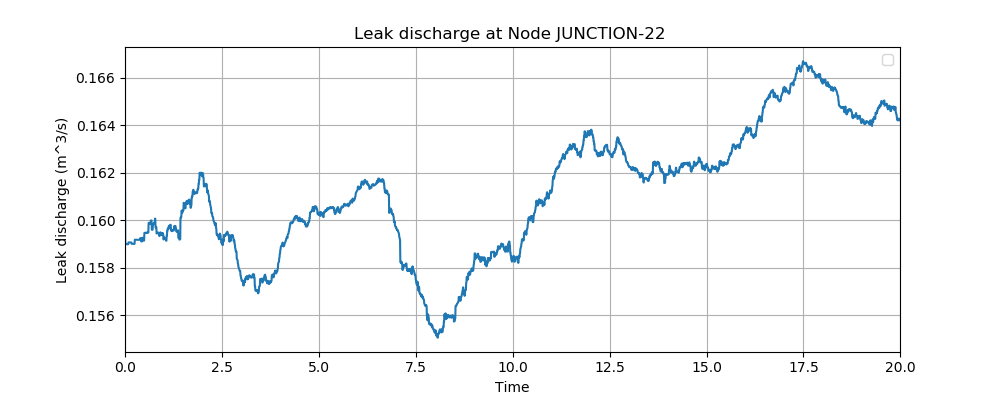
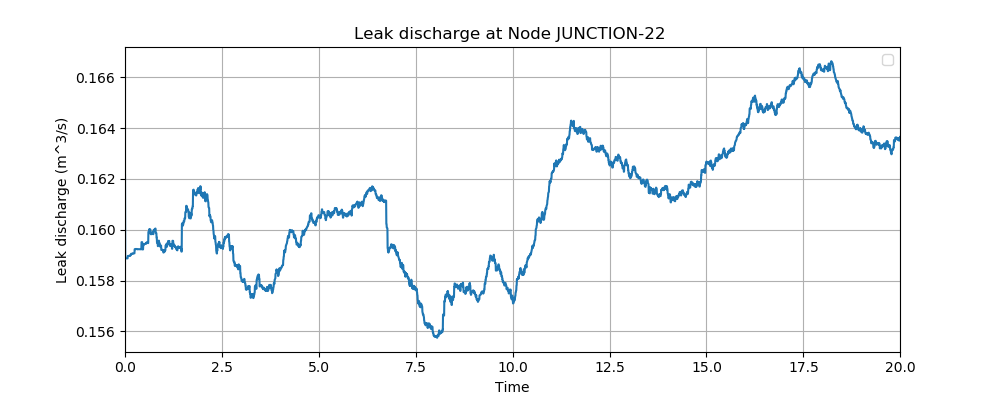
example 3 updated.

diff --git a/examples/Tnet3_burst_leak.py b/examples/Tnet3_burst_leak.py
@@ -4,7 +4,9 @@ inp_file = 'examples/networks/Tnet3.inp'
 tm = wmoc.network.TransientModel(inp_file)
 
 # set wavespeed
-tm.set_wavespeed(1200.)
+import numpy as np
+wavespeed = np.random.normal(1200., 100., size=tm.num_pipes)
+tm.set_wavespeed(wavespeed)
 #set time step
 tf = 20 # simulation period [s]
 tm.set_time(tf)
@@ -69,3 +71,21 @@ plt.legend(loc='best')
 plt.grid(True)
 plt.show()
 fig.savefig('./docs/figures/tnet3_pipe.png', format='png',dpi=100)
+
+node1 = tm.get_node('JUNCTION-8')
+node2 = tm.get_node('JUNCTION-16')
+node3 = tm.get_node('JUNCTION-45')
+node4 = tm.get_node('JUNCTION-90')
+fig = plt.figure(figsize=(10,4), dpi=80, facecolor='w', edgecolor='k')
+plt.plot(tm.simulation_timestamps,node1.head,label='JUNCTION-8')
+plt.plot(tm.simulation_timestamps,node2.head,label='JUNCTION-16')
+plt.plot(tm.simulation_timestamps,node3.head,label='JUNCTION-45')
+plt.plot(tm.simulation_timestamps,node4.head,label='JUNCTION-90')
+plt.xlim([tm.simulation_timestamps[0],tm.simulation_timestamps[-1]])
+plt.title('Head on Junctions')
+plt.xlabel("Time")
+plt.ylabel("Head (m)")
+plt.legend(loc='best')
+plt.grid(True)
+plt.show()
+fig.savefig('./docs/figures/tnet3_multi.png', format='png',dpi=100)

diff --git a/wmoc/network/model.py b/wmoc/network/model.py
@@ -77,7 +77,7 @@ class TransientModel (WaterNetworkModel):
         ----------
         wavespeed : float or int or list, optional
             If given as float or int, set the value as wavespeed
-            for all pipe; If given as list set the correspondiing
+            for all pipe; If given as list set the corresponding
             value to each pipe, by default 1200.
         """
 

diff --git a/docs/examples.rst b/docs/examples.rst
@@ -194,45 +194,49 @@ would need to take:
 .. literalinclude:: ../examples/Tnet3_burst_leak.py
     :lines: 1-4
 
-2.  Set wave speed for all pipes to be :math:`1200m/s` and
-    simulation period to be :math:`20s`. Use suggested time
-    step.
+2.  Assume that the wave speed for the pipes is normally distributed
+    with mean equal to :math:`1200 m/s` and standard deviation equal
+    to :math: `100m/s`. Then, assign the randomly generated wave speed
+    to each pipe in the network according to the order the pipes are
+    defined in the .inp file. Subsequently, set the simulation period
+    as :math:`20s`, and use suggested time step.
 
 .. literalinclude:: ../examples/Tnet3_burst_leak.py
-    :lines: 6-10
+    :lines: 6-12
 
 3.  Define background leak, and specify the emitter coefficient.
     The leak will be included in the initial condition calculation.
 
 .. literalinclude:: ../examples/Tnet3_burst_leak.py
-    :lines: 12-14
+    :lines: 14-16
 
 4.  Set up burst event, including burst start time (:math:`ts`),
     time for burst to fully develop (:math:`tc`), and the final emitter
     coefficient (final_burst_coeff).
 
 .. literalinclude:: ../examples/Tnet3_burst_leak.py
-    :lines: 16-20
+    :lines: 18-22
 
 4.  Compute steady state results to establish the initial
     condition for transient simulation.
 
 .. literalinclude:: ../examples/Tnet3_burst_leak.py
-    :lines: 22-25
+    :lines: 24-27
 
 5. Run transient simulation.
 
 .. literalinclude:: ../examples/Tnet3_burst_leak.py
-    :lines: 27-28
+    :lines: 29-30
 
 After the transient simulation, the results at nodes and links
 will be returned and stored in the transient model (tm) instance.
 
 
-To plot the leak discharge results at JUNCTION-22:
+To understand how much water has been lost through the leakage
+at JUNCTION-22, we can plot the leak discharge results at JUNCTION-22:
 
 .. literalinclude:: ../examples/Tnet3_burst_leak.py
-    :lines: 30-43
+    :lines: 33-45
 
 yields :numref:`tnet3_leak`:
 
@@ -244,10 +248,11 @@ yields :numref:`tnet3_leak`:
 
    Leak discharge at node JUNCTION-22.
 
-To plot the burst discharge results at JUNCTION-20:
+Similarly, to understand how much water has been lost through the burst
+at JUNCTION-20, we can plot the burst discharge results at JUNCTION-20:
 
 .. literalinclude:: ../examples/Tnet3_burst_leak.py
-    :lines: 45-56
+    :lines: 47-58
 
 yields :numref:`tnet3_burst`:
 
@@ -258,10 +263,10 @@ yields :numref:`tnet3_burst`:
 
    Burst discharge at node JUNCTION-20.
 
-Similarly, to plot the velocity results in LINK-40:
+Additionally, to plot the velocity results in LINK-40:
 
 .. literalinclude:: ../examples/Tnet3_burst_leak.py
-    :lines: 59-71
+    :lines: 61-73
 
 yields :numref:`tnet3_pipe`:
 
@@ -271,3 +276,21 @@ yields :numref:`tnet3_pipe`:
    :alt: tnet3_pipe
 
    Velocity at the start and end node of LINK-40.
+
+Moreover, we can plot head results at some further nodes, such as
+JUNCTION-8, JUNCTION-16, JUNCTION-45, JUNCTION-90, by:
+
+.. literalinclude:: ../examples/Tnet3_burst_leak.py
+    :lines: 75-91
+
+The results are shown in :numref:`tnet3_multi`. It can be noticed that
+the amplitude of the pressure transient at JUNCTION-8 and JUNCTION-16
+is more significant than that at other two junctions, since they are closer
+to JUNCTION-20, where the burst occurred.
+
+.. _tnet3_multi:
+.. figure:: figures/tnet3_multi.png
+   :width: 600
+   :alt: tnet3_multi
+
+   Head at multiple junctions.

diff --git a/docs/transient.rst b/docs/transient.rst
@@ -45,12 +45,12 @@ equations, as shown below [LAJW99]_:
     \frac{dV}{dt} - \frac{g}{a} \frac{dH}{dt} + h_f - gV\sin(\alpha) = 0
     \text{only when} \frac{dx}{dt} = -a
 
-Headloss in pipes
+Headloss in Pipes
 ---------------------
 
 WMOC adopts Darcy-Weisbach equation to compute head loss, regardless of the
 friction method defined in the EPANet .inp file. This package computes
-Darcy-Weisbach coeffients (:math:`f`) based on the head loss (:math:`{h_l}_0`)
+Darcy-Weisbach coefficients (:math:`f`) based on the head loss (:math:`{h_l}_0`)
 and flow velocity (:math:`V_0`) in initial condition, using the following equation:
 
 .. math::
@@ -85,33 +85,33 @@ It should be noted that if the head is negative, the demand flow will be
 treated zero, assuming that a backflow preventer exists on each node.
 
 
-
-Inner nodal boundary
---------------------
-
-
-
-
-Nodal leakage boundary
-----------------------
-
-
-
-
-Choice of time step
+Choice of Time Step
 -----------------------
 
 
 
-Valve closure
---------------
+
+
+
+
+
+
+
+
+Valve Operation (Closure and Opening)
+-------------------------------------
 Simulate valve closure
 
 
 
-Pump Shut-off
---------------
+Pump Operation (Shut-off and Start-up)
+--------------------------------------
 simulate pump controlled shut-off
+
+
+
+Leakage
+--------
 
 
 
